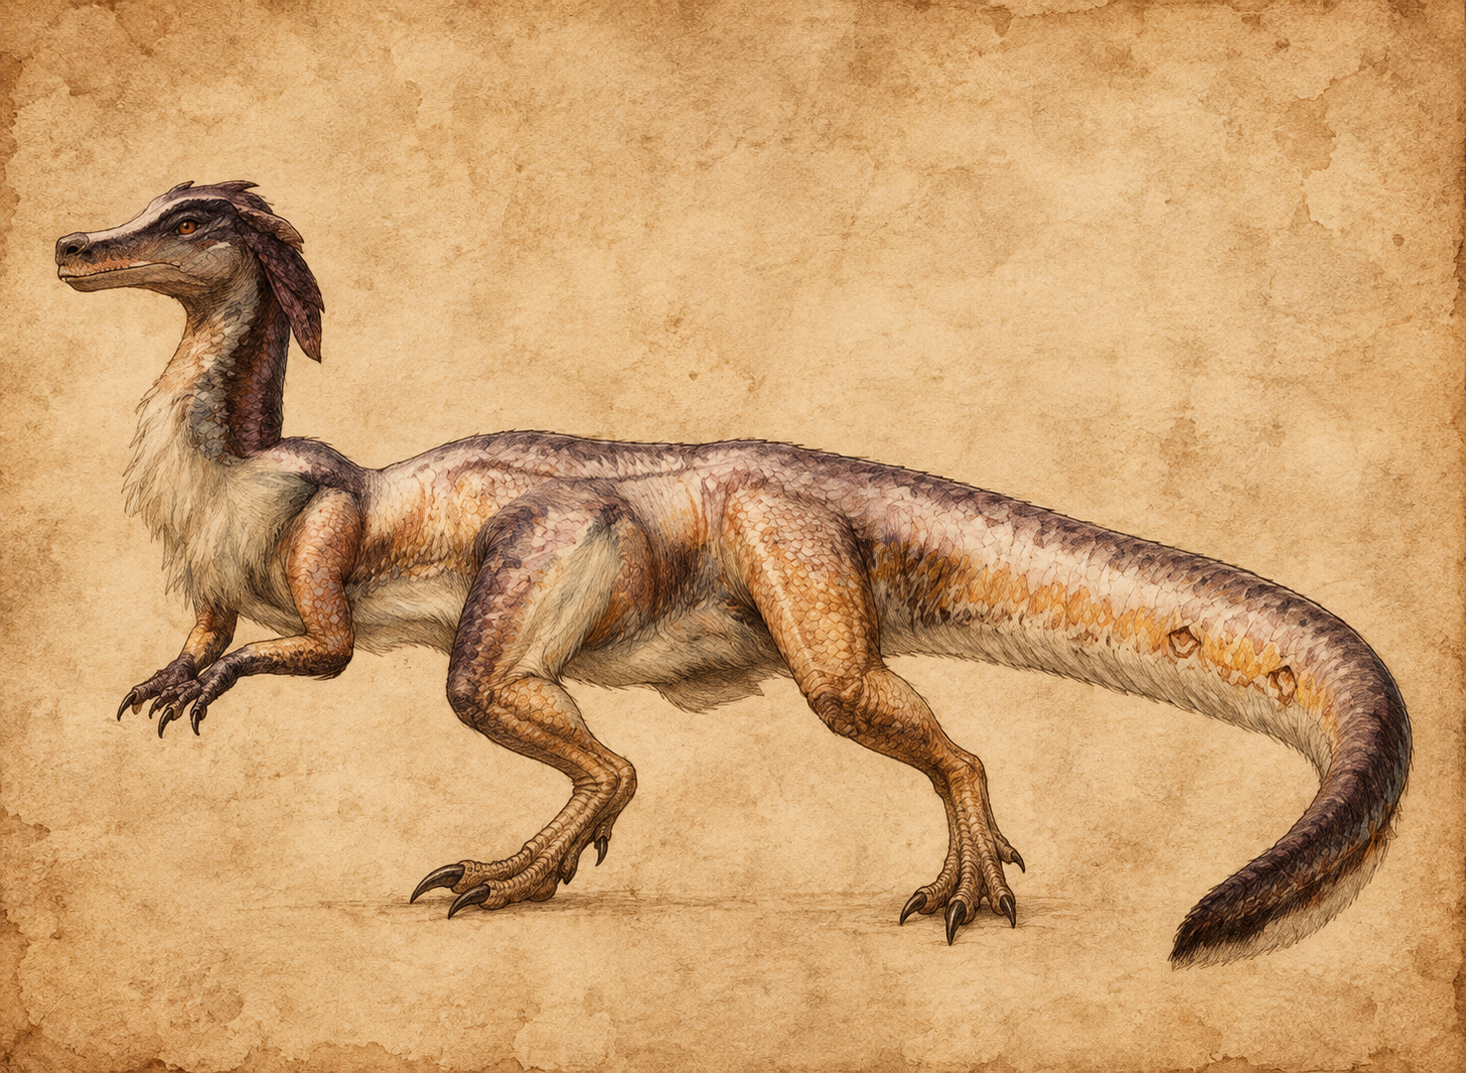
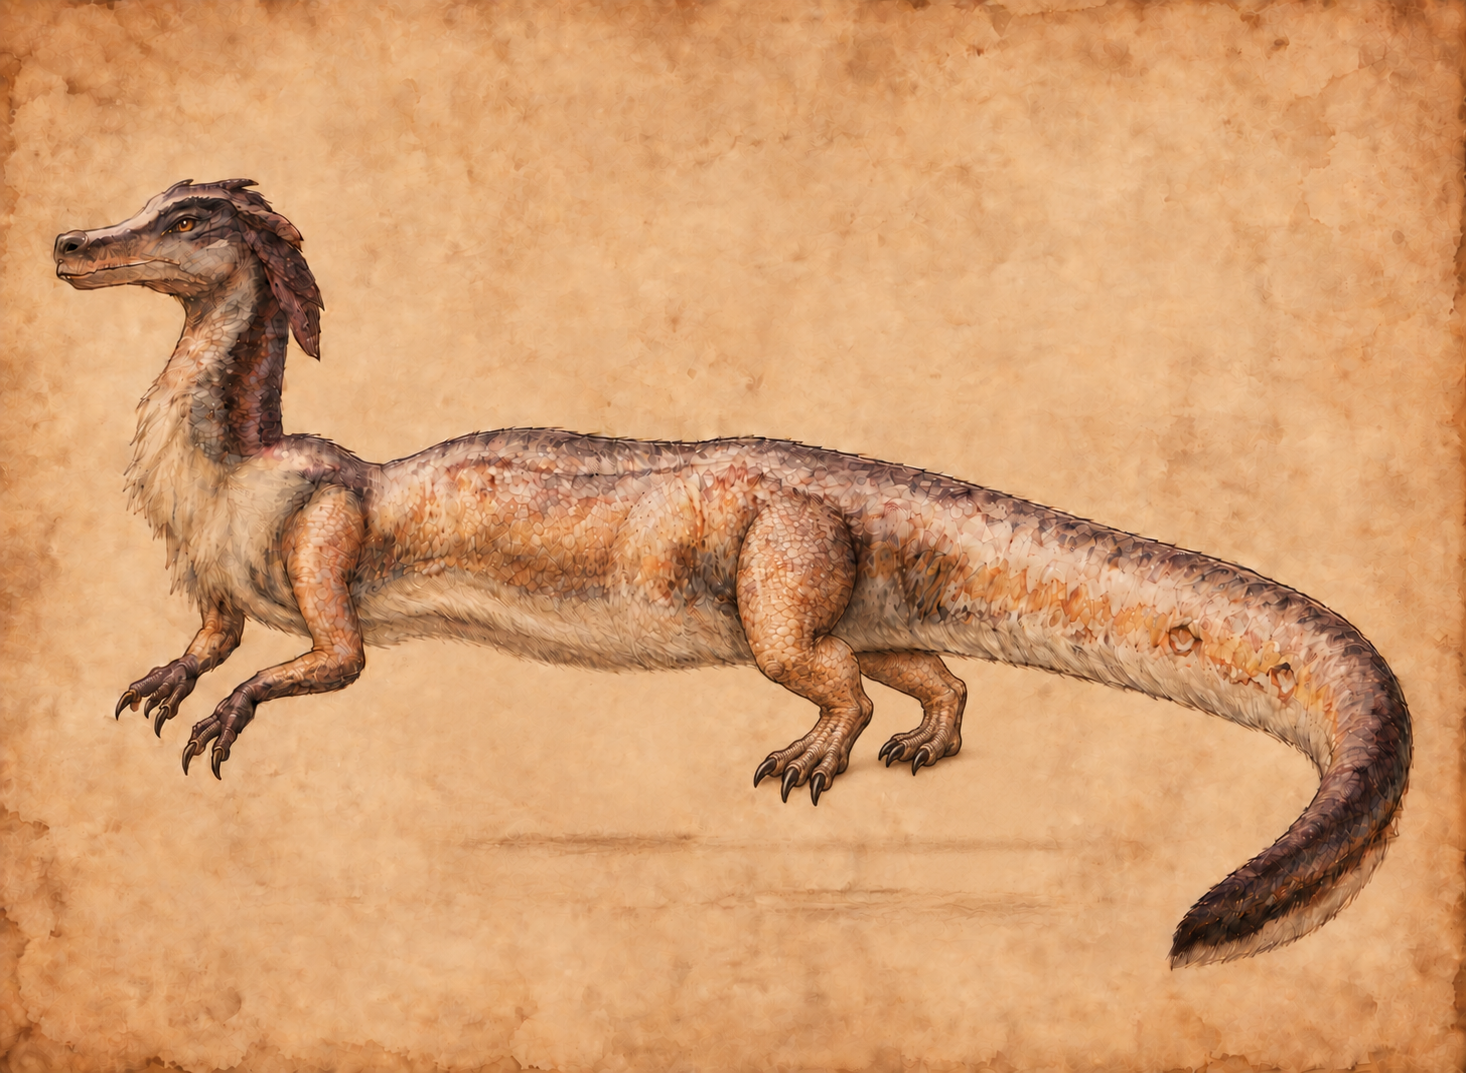
[FEATURE] Add more MHGU monster maps

diff --git a/scripts/audit-monster-maps.js b/scripts/audit-monster-maps.js
@@ -7,6 +7,10 @@ const entries = catalog.entries || [];
 const ranks = ['low', 'high', 'master'];
 const legacyValidatedMapIds = new Set(['world-42', 'world-1', 'world-2', 'world-3', 'world-4', 'world-5', 'world-6', 'world-7', 'world-8', 'world-9', 'world-10', 'world-11', 'world-12', 'world-13', 'world-14', 'world-15', 'world-16', 'world-17', 'world-18', 'world-19', 'world-20', 'world-21', 'world-22', 'world-23', 'world-24', 'world-25', 'world-26', 'world-27', 'world-28', 'world-29', 'world-30', 'world-31', 'world-32', 'world-33', 'world-34', 'world-35', 'world-36', 'world-37', 'world-38', 'world-39', 'world-40', 'world-41', 'world-43', 'world-44', 'world-45', 'world-48', 'world-49', 'world-50', 'world-51', 'world-52', 'world-53', 'world-54', 'world-55', 'world-56', 'world-57', 'world-58', 'world-59', 'world-60', 'world-61', 'world-62', 'world-63', 'world-64', 'world-65', 'world-66', 'world-67', 'world-68', 'world-69', 'world-70', 'world-71', 'world-72', 'world-73', 'world-75', 'world-76', 'world-77', 'world-78', 'world-79', 'world-80', 'world-81', 'world-82', 'world-83', 'world-84', 'world-85', 'world-88', 'world-89', 'world-90', 'world-91', 'world-92', 'rise-1', 'rise-2', 'rise-3', 'rise-4', 'rise-5', 'rise-6', 'rise-7', 'rise-8', 'rise-9', 'rise-10', 'rise-11', 'rise-12', 'rise-13', 'rise-14', 'rise-15', 'rise-16', 'rise-17', 'rise-18', 'rise-19', 'rise-20', 'rise-21', 'rise-22', 'rise-23', 'rise-24', 'rise-25', 'rise-26', 'rise-27', 'rise-28', 'rise-29', 'rise-30', 'rise-31', 'rise-32', 'rise-33', 'rise-34', 'rise-35', 'rise-36', 'rise-37', 'rise-38', 'rise-39', 'rise-40', 'rise-41', 'rise-42', 'rise-43', 'rise-44', 'rise-45', 'rise-46', 'rise-47', 'rise-48', 'rise-49', 'rise-50', 'rise-51', 'rise-52', 'rise-53', 'rise-54', 'rise-55', 'rise-56', 'rise-57', 'rise-58', 'rise-59', 'rise-60', 'rise-61', 'rise-62', 'rise-63', 'rise-64', 'rise-65', 'rise-66', 'rise-67', 'rise-68', 'rise-69', 'rise-70', 'wilds-1', 'wilds-2', 'wilds-3', 'wilds-4', 'wilds-5', 'wilds-6', 'wilds-7', 'wilds-8', 'wilds-9', 'wilds-10', 'wilds-11', 'wilds-12', 'wilds-13', 'wilds-14', 'wilds-15', 'wilds-16', 'wilds-17', 'wilds-18', 'wilds-19', 'wilds-20', 'wilds-21', 'wilds-22', 'wilds-23', 'wilds-24', 'wilds-25', 'wilds-26', 'wilds-27', 'wilds-28', 'wilds-29', 'wilds-30', 'wilds-31', 'wilds-32', 'wilds-33', 'wilds-34', 'mhgu-68446', 'mhgu-6d986', 'mhgu-67ab6', 'mhgu-6b496', 'mhgu-6a356', 'mhgu-63806', 'mhgu-643d6', 'mhgu-6e3b6', 'mhgu-69046', 'mhgu-65476', 'mhgu-60936', 'mhgu-68546', 'mhgu-6d886', 'mhgu-679b6', 'mhgu-6b596', 'mhgu-6a956', 'mhgu-63b06', 'mhgu-64bd6', 'mhgu-6e9b6', 'mhgu-69b46', 'mhgu-65b76', 'mhgu-60a36', 'mhgu-68b46', 'mhgu-6de86', 'mhgu-67bb6', 'mhgu-6b396', 'mhgu-6ad56']);
 
+legacyValidatedMapIds.add('mhgu-63406');
+legacyValidatedMapIds.add('mhgu-634d6');
+legacyValidatedMapIds.add('mhgu-64e46');
+
 const isCoordinate = (value) => Number.isFinite(value) && value >= 0 && value <= 100;
 const hasValidatedMap = (entry) => {
   if (legacyValidatedMapIds.has(entry.id)) return true;

diff --git a/src/control.js b/src/control.js
@@ -2547,6 +2547,26 @@ const partMapAssets = {
       { partIndex: 1, valuePartIndex: 1, x: 80, y: 49, labelX: 78, labelY: 15, side: 'right', kind: 'neutral' },
     ],
   },
+  'mhgu-63406': {
+    image: 'assets/part-maps/slagtoth-mhgu-hunter-notes-v1.png',
+    anchors: [
+      { partIndex: 0, valuePartIndex: 0, x: 50, y: 50, labelX: 22, labelY: 15, side: 'left', kind: 'neutral' },
+      { partIndex: 1, valuePartIndex: 1, x: 78, y: 46, labelX: 78, labelY: 15, side: 'right', kind: 'neutral' },
+    ],
+  },
+  'mhgu-634d6': {
+    image: 'assets/part-maps/gargwa-mhgu-hunter-notes-v1.png',
+    anchors: [
+      { partIndex: 0, valuePartIndex: 0, x: 53, y: 51, labelX: 50, labelY: 15, kind: 'neutral' },
+    ],
+  },
+  'mhgu-64e46': {
+    image: 'assets/part-maps/zamite-mhgu-hunter-notes-v1.png',
+    anchors: [
+      { partIndex: 0, valuePartIndex: 0, x: 52, y: 50, labelX: 22, labelY: 15, side: 'left', kind: 'neutral' },
+      { partIndex: 1, valuePartIndex: 1, x: 77, y: 54, labelX: 78, labelY: 15, side: 'right', kind: 'neutral' },
+    ],
+  },
 };
 function partMapMarkup(monster) {
   const map = monster.partMap || {};
